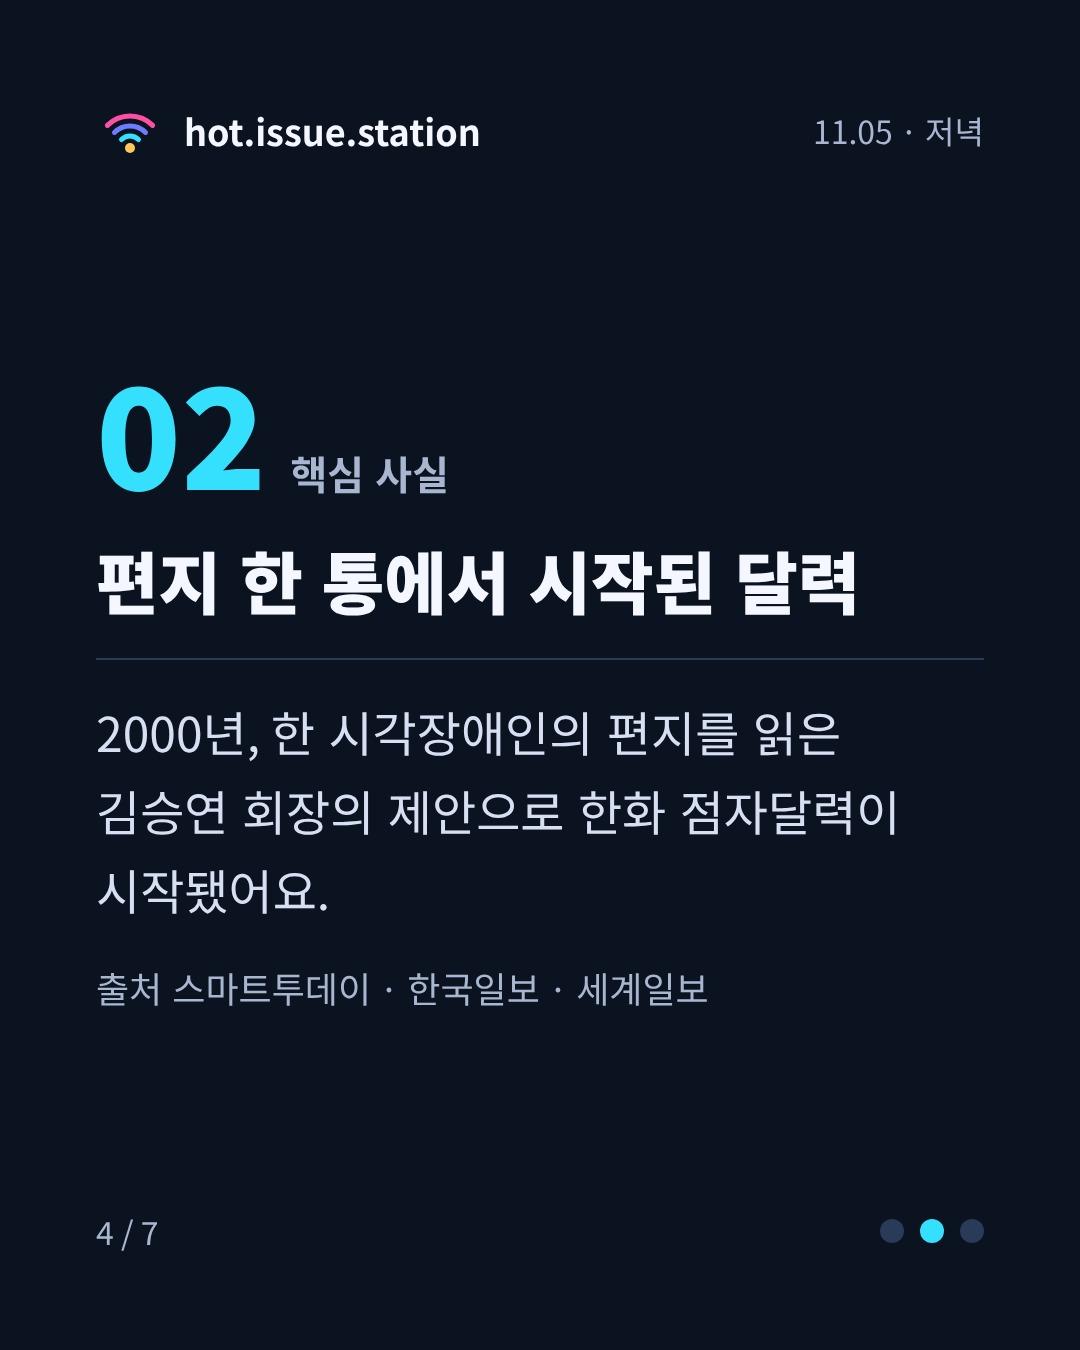
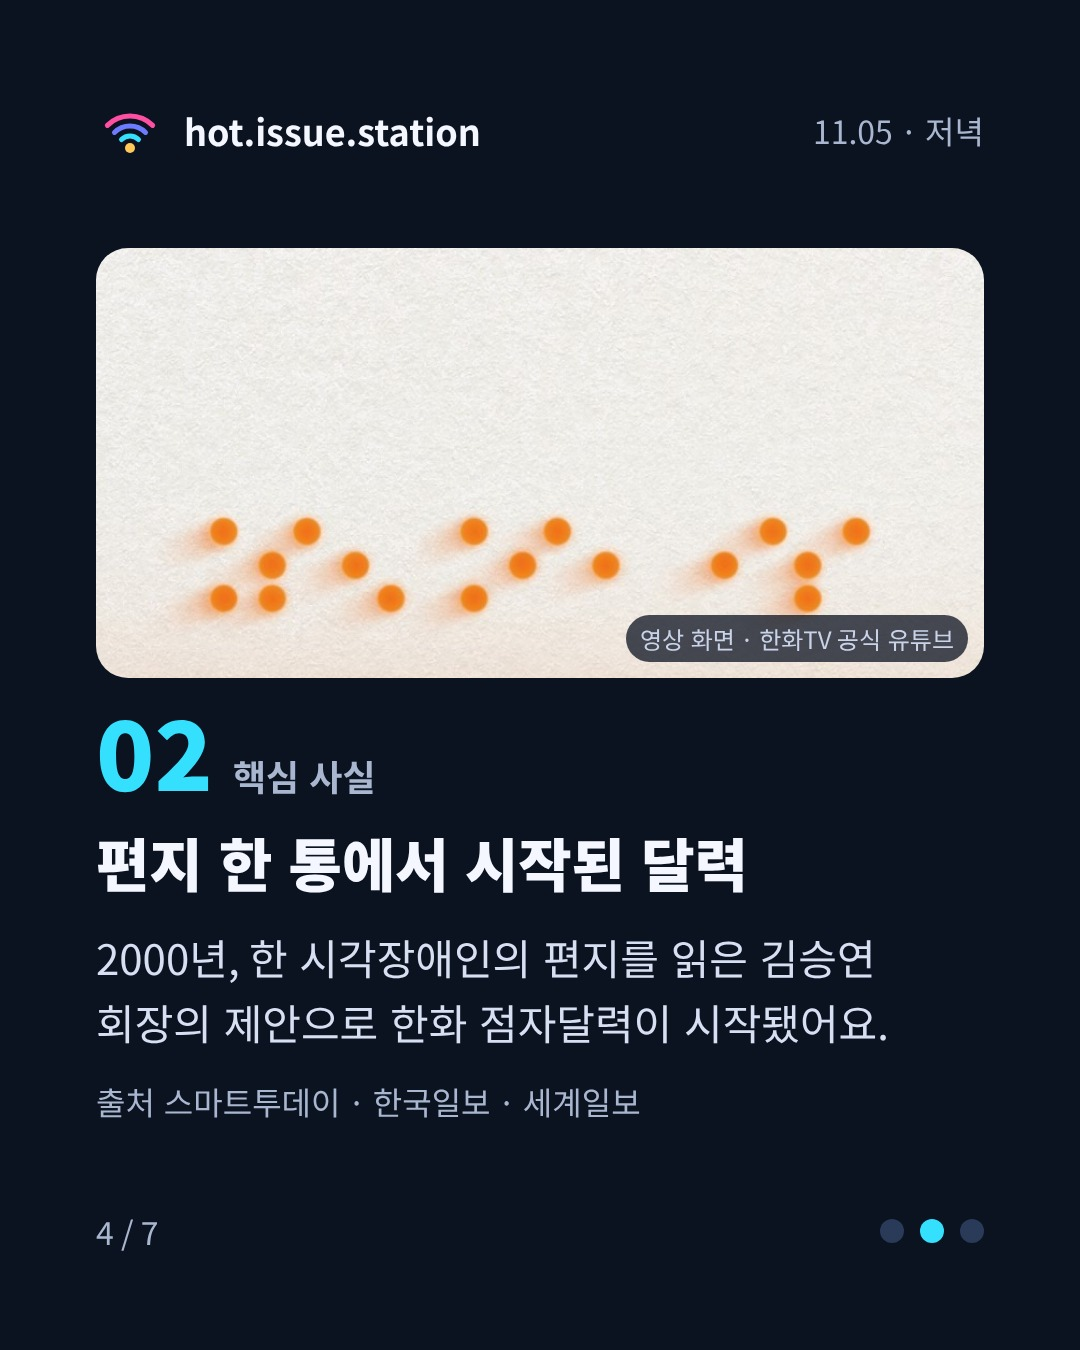
리센느 카드 장마다 배경 사진(pageBg 옵션 추가), 훈맹정음 카드에 공식 기관 영상 화면 4장 — 대표 요청 11/5 11:00 (자동 게시는 꺼 둠)
Claude-Session: https://claude.ai/code/session_017sdLahomMb4Krwobu1FCoz

diff --git a/scripts/make_post.py b/scripts/make_post.py
@@ -346,6 +346,22 @@ def cards(r):
 <div style="display:flex;gap:24px"><div style="padding:20px 56px;border-radius:999px;background:{CYAN};color:{ONACC};font-size:48px;font-weight:900">저장</div>
 <div style="padding:20px 56px;border-radius:999px;background:{PINK};color:{ONACC};font-size:48px;font-weight:900">팔로우</div></div></div>
 <div style="font-size:32px;line-height:1.5;color:{MUTED}">광고·협찬 없음</div></div>""", label, TOT, "매일 따뜻한 이슈는 @hot.issue.station", total=TOT))
+    # (선택) 장마다 배경 사진 — round JSON "pageBg": {"2": "경로", "3": "경로", ...} (대표 요청 11/5 11:00)
+    # 사진을 화면 전체에 옅게 깔고, 위에 어두운(6장은 밝은) 막을 덮어 글이 잘 읽히게 한다. 1장(표지 사진)은 그대로.
+    pb = r.get("pageBg") or {}
+    if pb:
+        op = float(r.get("pageBgOpacity", 0.38))
+        for k, path in pb.items():
+            i = int(k) - 1
+            if 0 < i < len(out) and path:
+                light = (i == NF + 2)
+                tint = f"rgba(53,224,255,.72)" if light else f"rgba({BGRGB},.62)"
+                layer = (f'<div style="position:absolute;inset:0;background:url({photo_uri(path)}) {r.get("pageBgPos", "50% 30%")}/cover no-repeat;opacity:{op}"></div>'
+                         f'<div style="position:absolute;inset:0;background:{tint}"></div>')
+                marker = 'overflow:hidden;background:'
+                a = out[i].find(marker)
+                b = out[i].find('">', a) + 2
+                out[i] = out[i][:b] + layer + out[i][b:]
     return out
 
 
